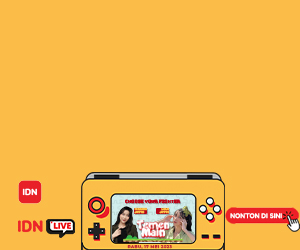
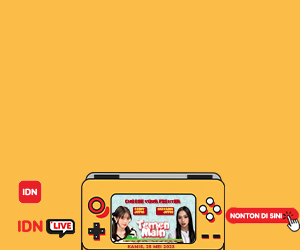
aw

Changed region(s): [[0.36, 0.812, 0.66, 1.0]]

diff --git a/idntimes/masthead/internal/idnlive/temen-main/index2.html b/idntimes/masthead/internal/idnlive/temen-main/index2.html
@@ -975,12 +975,12 @@ h.end=i=function(){s.className=s.className.replace(RegExp(' ?'+y),'')};
             
 <center>
     <div style="height: 250px; width: 300px; position: relative; display: block">
-        <a href="https://www.idn.app/jkt-2p6sbkv51kp3too" target="_blank" style="position: absolute; width: 300px; height: 250px;"></a>
+        <a href="https://www.idn.app/jkt48-official" target="_blank" style="position: absolute; width: 300px; height: 250px;"></a>
 
-        <iframe width="300" height="170" src="https://www.idn.app/embed/temen-main-jkt48-230516230421?auto_play=1&mute=1" frameborder="0" scrolling="no" allowfullscreen="true" style="position: absolute; width: 300px; height: 170px; left: 0px; top: 0px; z-index: 1;"></iframe>
+        <iframe width="300" height="170" src="https://www.idn.app/embed/temen-main-jkt48-230524104101?auto_play=1&mute=1" frameborder="0" scrolling="no" allowfullscreen="true" style="position: absolute; width: 300px; height: 170px; left: 0px; top: 0px; z-index: 1;"></iframe>
 
 
-        <img src="https://idnmedia.github.io/preview/idntimes/masthead/internal/idnlive/temen-main/300x250.jpg" alt="leaderboard" style="max-width: 300px; max-height: 250px;">
+        <img src="300x250.jpg" alt="leaderboard" style="max-width: 300px; max-height: 250px;">
     </div>
 </center>
             

diff --git a/idntimes/masthead/internal/idnlive/temen-main/index.html b/idntimes/masthead/internal/idnlive/temen-main/index.html
@@ -766,11 +766,11 @@
                 
 <center>
     <div style="height: 250px; width: 970px; position: relative; display: block">
-        <a href="https://www.idn.app/jkt-2p6sbkv51kp3too" target="_blank" style="position: absolute; width: 970px; height: 250px;"></a>
+        <a href="https://www.idn.app/jkt48-official" target="_blank" style="position: absolute; width: 970px; height: 250px;"></a>
 
-        <iframe width="386" height="217" src="https://www.idn.app/embed/temen-main-jkt48-230516230421?auto_play=1&mute=1" frameborder="0" scrolling="no" allowfullscreen="true" style="position: absolute; width: 386px; height: 217px; left: 13px; top: 17px; z-index: 1;"></iframe>
+        <iframe width="386" height="217" src="https://www.idn.app/embed/temen-main-jkt48-230524104101?auto_play=1&mute=1" frameborder="0" scrolling="no" allowfullscreen="true" style="position: absolute; width: 386px; height: 217px; left: 13px; top: 17px; z-index: 1;"></iframe>
 
-        <img src="https://idnmedia.github.io/preview/idntimes/masthead/internal/idnlive/temen-main/970x250.jpg" alt="leaderboard" style="max-width: 970px; max-height: 250px;">
+        <img src="970x250.jpg" alt="leaderboard" style="max-width: 970px; max-height: 250px;">
     </div>
 </center>
                 
